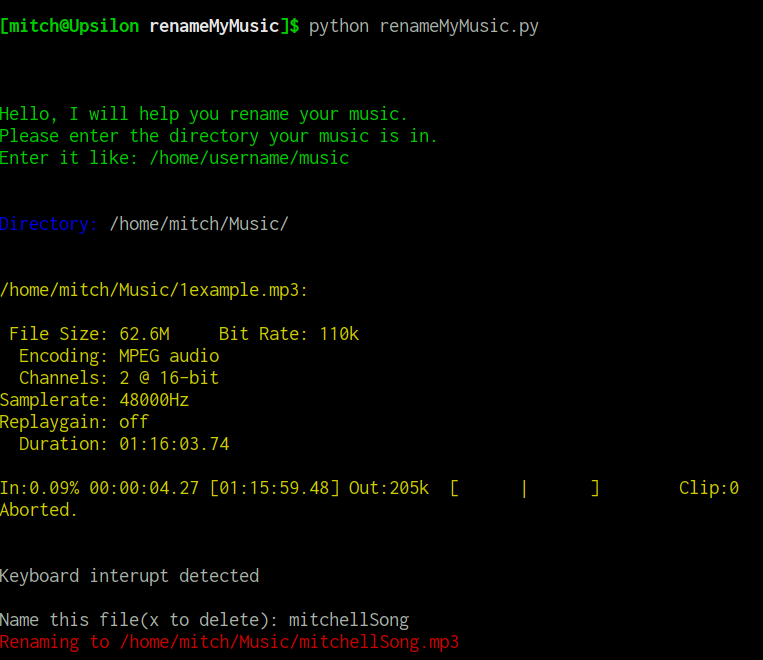
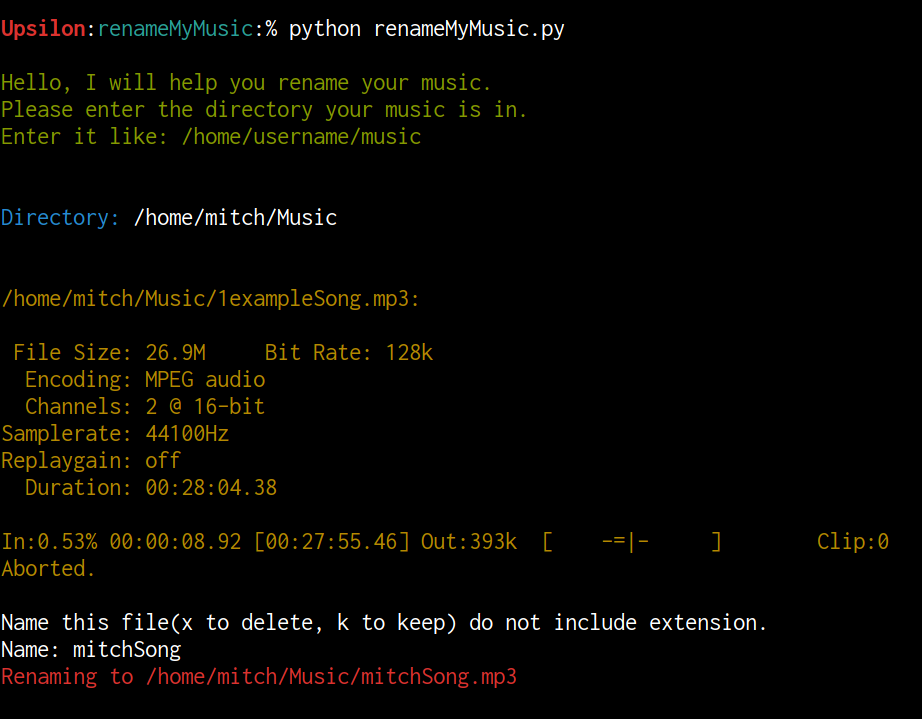
New screenshot, updated function names, comments

diff --git a/renameMyMusic.py b/renameMyMusic.py
@@ -1,5 +1,6 @@
 ''' TODO 
 -need to be able to detect redundant names to avoid overwrite
+    easy way would be to check name you want to write it as against the files[] list
 -add mechanism to detect if sox is installed on Manjaro
     os.system("pacman -Q sox")
     then read in the bash output
@@ -12,6 +13,19 @@ import sys
 import subprocess
 from pathlib import Path
 from colorama import Fore, Style
+
+'''
+Not going to be as simple as I thought
+The files[i] or "pathToSong" is the full path including the name and extension
+need to trip off the original song name and append the new one, 
+then check that resulting string against files[] AND because files[] is never updated, need to keep track of names in second list
+and check this new name against that list as well
+
+# here files[i] is passed as pathToSong 
+def ensureNoOverwrite(files, pathToSong, newName):
+    for i in range(len(files)):
+        newPath = pathToSong + newName
+'''
 
 def renameSong(pathToSong, newName):            
     print(Fore.RED + "Renaming to " + newName)    # want to confirm rename in red
@@ -35,7 +49,7 @@ def getMusicDirectory():
     assert os.path.exists(musicDir), "ERROR "+str(musicDir) + " is an invalid directory"
     return musicDir
 
-def getAndCheckSongName(nameToCheck):
+def sanitizeSongName(nameToCheck):
     # ensure that name the user wants does not contain weird characters
     # only spaces and alphanumerics are allowed
     # multiple spaces are allowed but seriously.. don't do that
@@ -50,7 +64,7 @@ def getAndCheckSongName(nameToCheck):
     return nameToCheck
 
 def playAndTakeInput(musicDir, files = []):
-    for i in range(len(files)):
+    for i in range(len(files)-1):
         # I want the sox output to be yellow so I can distinguish from my python
         print (Fore.YELLOW) 
         # need to wrap file names in quotes so bash can read them properly
@@ -59,7 +73,7 @@ def playAndTakeInput(musicDir, files = []):
         print("Name this file(x to delete, k to keep) do not include extension.")
         uncheckedName = input("Name: ")
         # pass the desired name to check it before continuing
-        songName = getAndCheckSongName(uncheckedName)
+        songName = sanitizeSongName(uncheckedName)
 
         if songName== "x":
                 cmd = ("rm " + "\"" + files[i] + "\"")
@@ -81,7 +95,7 @@ def playAndTakeInput(musicDir, files = []):
                 print(Fore.RED + "Renaming to") 
             
 def collectSongs(musicDir, files = []):
-    # Walk the directory and build array of files
+    # Walk the directory and build list of files
     for (path, dirnames, filenames) in os.walk(musicDir):
         files.extend(os.path.join(path, name) for name in sorted(filenames))
     return files

diff --git a/README.md b/README.md
@@ -3,7 +3,7 @@
 I am writing this python script to help me organize my mess of a music library.  
 I have a lot of songs with random or unintuitive names. This program reads each file into an array, then iterates through them and plays each one.  
 
-Each song in the specified directory is played until a keyboard interupt or the song ends, at which point the user is asked to rename the song or delete it.
+Each song in the specified directory is played until a keyboard interupt or the song ends, at which point the user is asked to rename the song, delete it, or keep it.
 
 ## Screenshot
 
